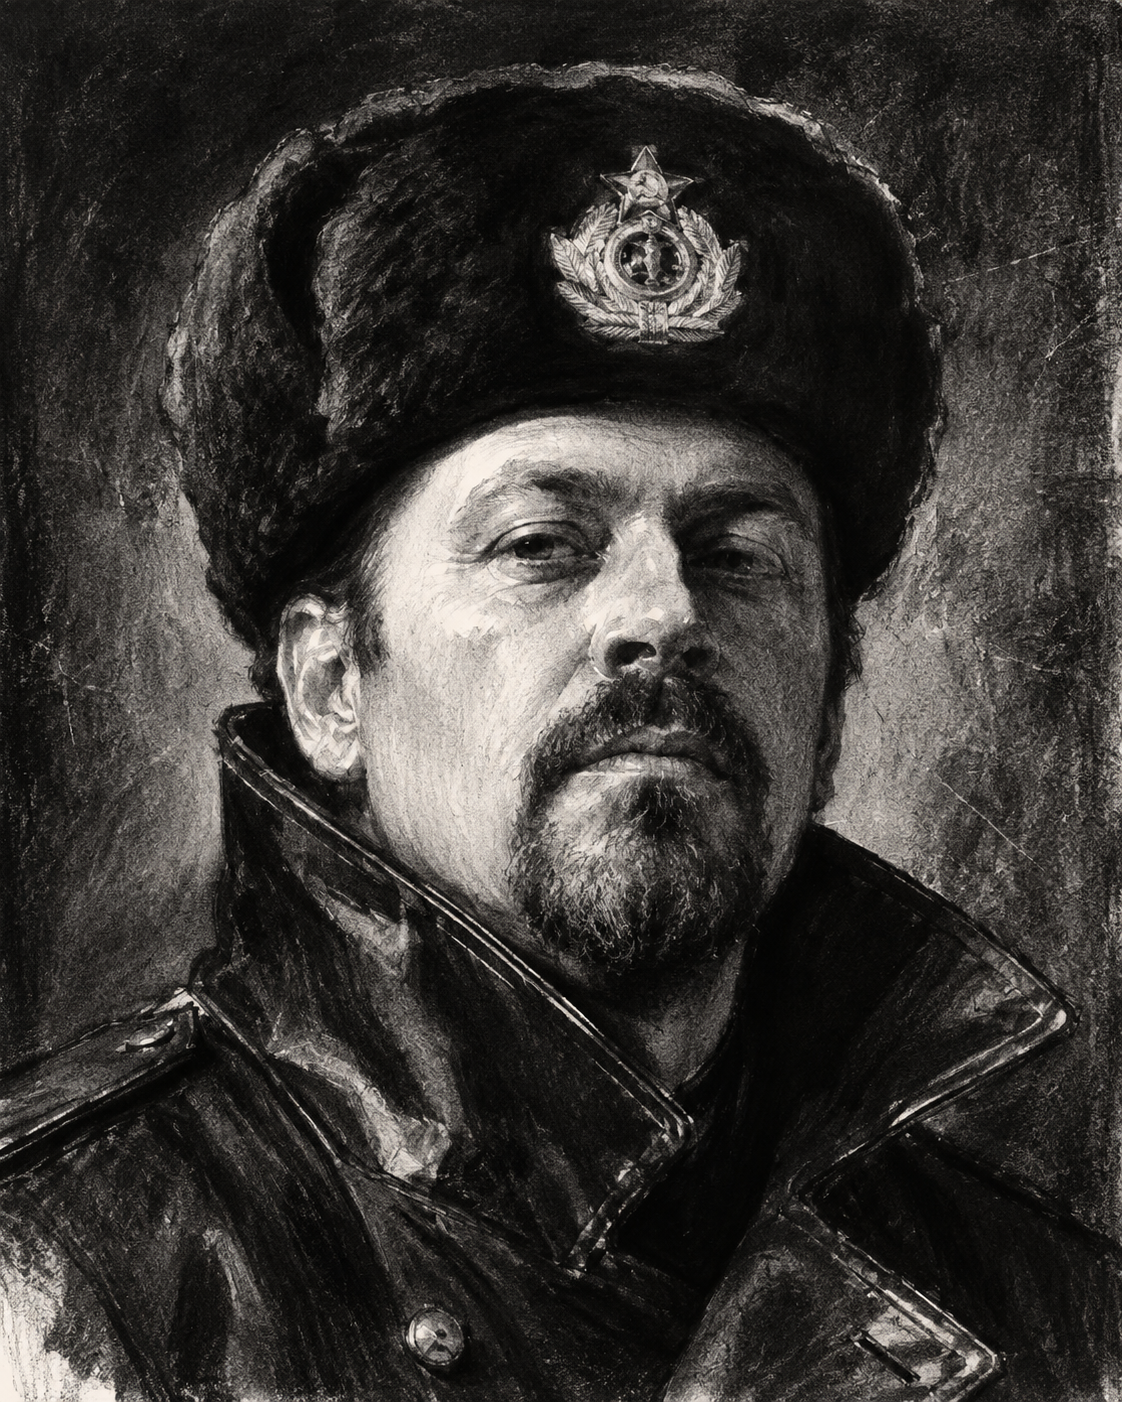
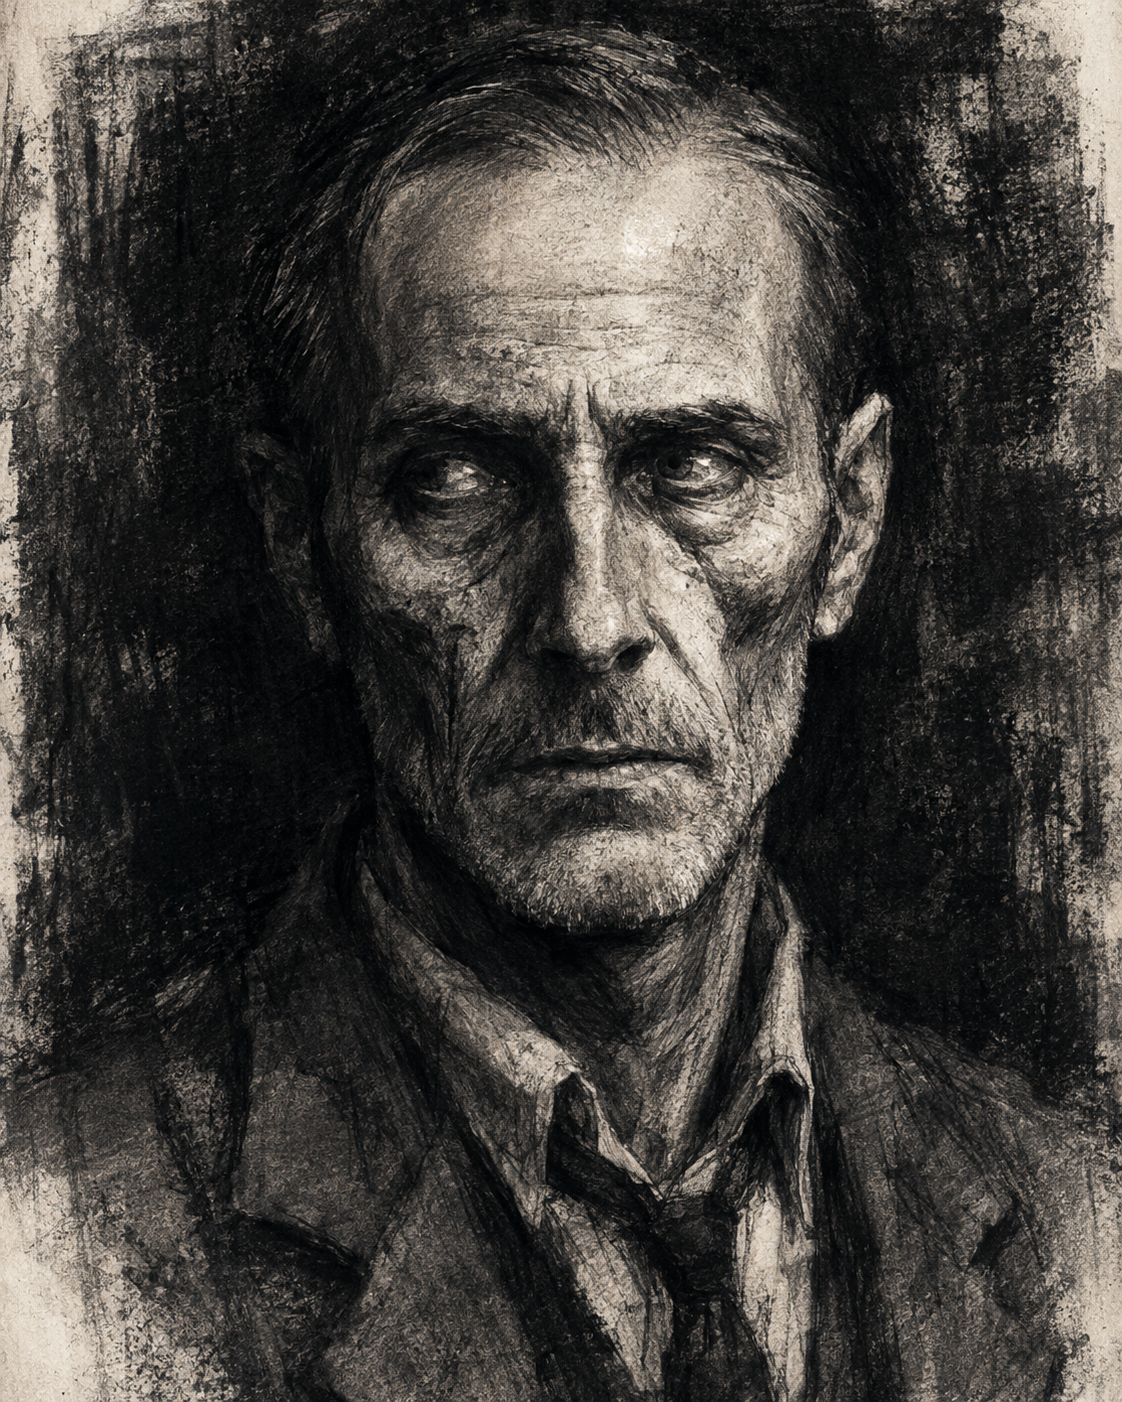
Fix Bartholomew Douglas portrait

diff --git a/chronicle.html b/chronicle.html
@@ -214,6 +214,6 @@
 
     <script src="chronicle-data.js?v=20260515cody"></script>
     <script src="chronicle.js?v=20260515cody"></script>
-    <script src="cleaned-characters.js?v=20260517malknos"></script>
+    <script src="cleaned-characters.js?v=20260517bartholomewfix"></script>
   </body>
 </html>

diff --git a/index.html b/index.html
@@ -214,6 +214,6 @@
 
     <script src="chronicle-data.js?v=20260515cody"></script>
     <script src="chronicle.js?v=20260515cody"></script>
-    <script src="cleaned-characters.js?v=20260517malknos"></script>
+    <script src="cleaned-characters.js?v=20260517bartholomewfix"></script>
   </body>
 </html>